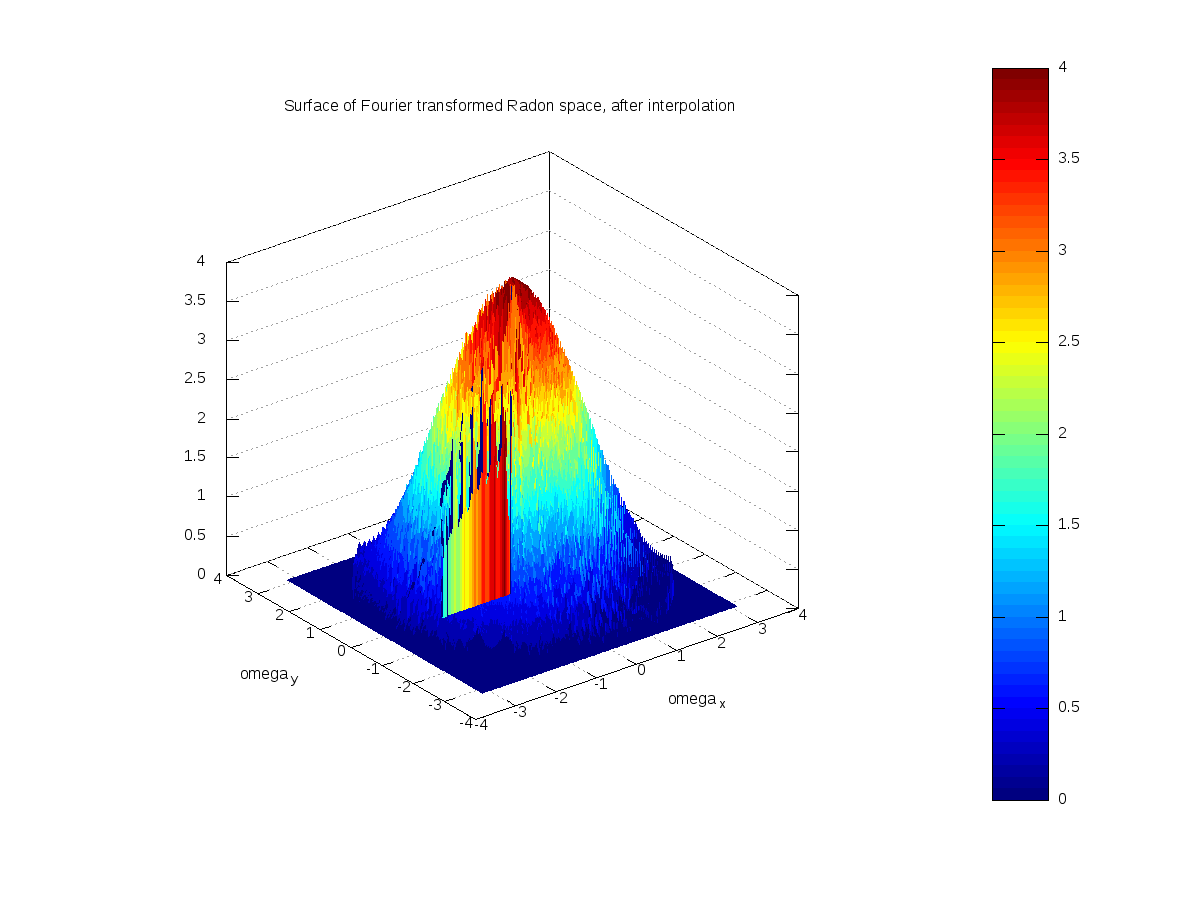
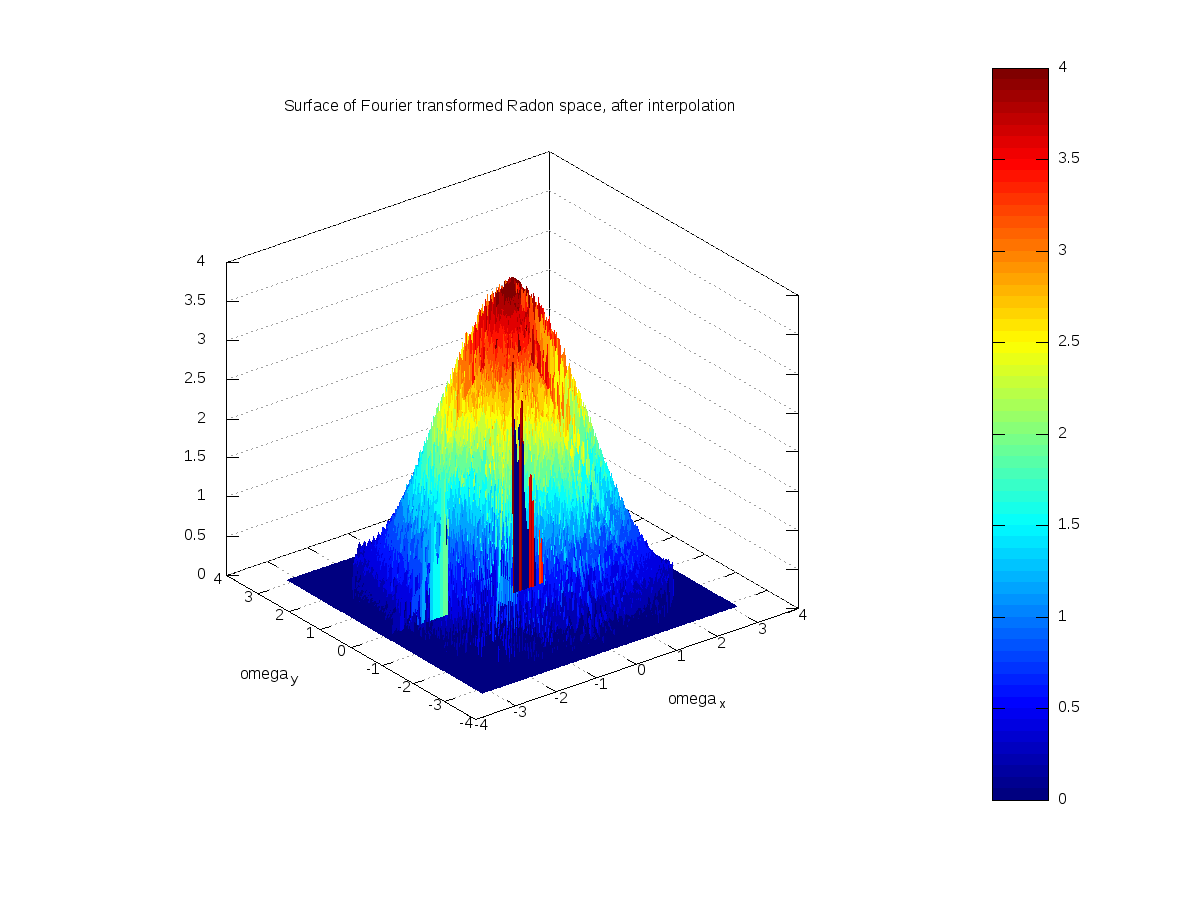
Correct bug in coordinate mapping from (-pi,pi) to (0,180)

Changed region(s): [[0.3083, 0.3111, 0.5858, 0.7467]]

diff --git a/main.m b/main.m
@@ -55,6 +55,8 @@ save_image(THETA, omega_s, abs(Fourier_Radon),...
 %% INTERPOLATION: Map slices from polar coordinates to rectangular coordinates
 [Fourier_2D omega_xy] = polar_to_rect(THETA,omega_s,Fourier_Radon,N_image*oversampling_ratio,interp_m,DEBUG);
 
+save_image(omega_xy,omega_xy,abs(Fourier_2D),'Interpolated Fourier Space','omega_x','omega_y')
+
 %%%%%%%%%%%%%%%%%%%%%%%%%%%%%%%%%%%%%%%%%%%%%%%%%%%%%%%%%%%%%%%%%%%%%
 %% INVERSE 2D FOURIER TRANSFORM
 [Reconstructed_image axis_xy_2] = inverse_Fourier_2D(Fourier_2D,omega_xy,DEBUG);

diff --git a/polar_to_rect.m b/polar_to_rect.m
@@ -47,7 +47,7 @@ omega_y=omega_x;
 
 % map from {theta,omega_s : [-pi,pi],[0,inf]} to {theta,omega_s : [0, 180],[-inf,inf]}
 OMEGA_SI = OMEGA_SI .* sign(THETA_I);
-THETA_I = abs(THETA_I) * (180/pi);
+THETA_I = mod( THETA_I * (180/pi), 180);
 
 %% Apply interpolation
 % disable extrapolation: everything outside the defined space is set to zero.
